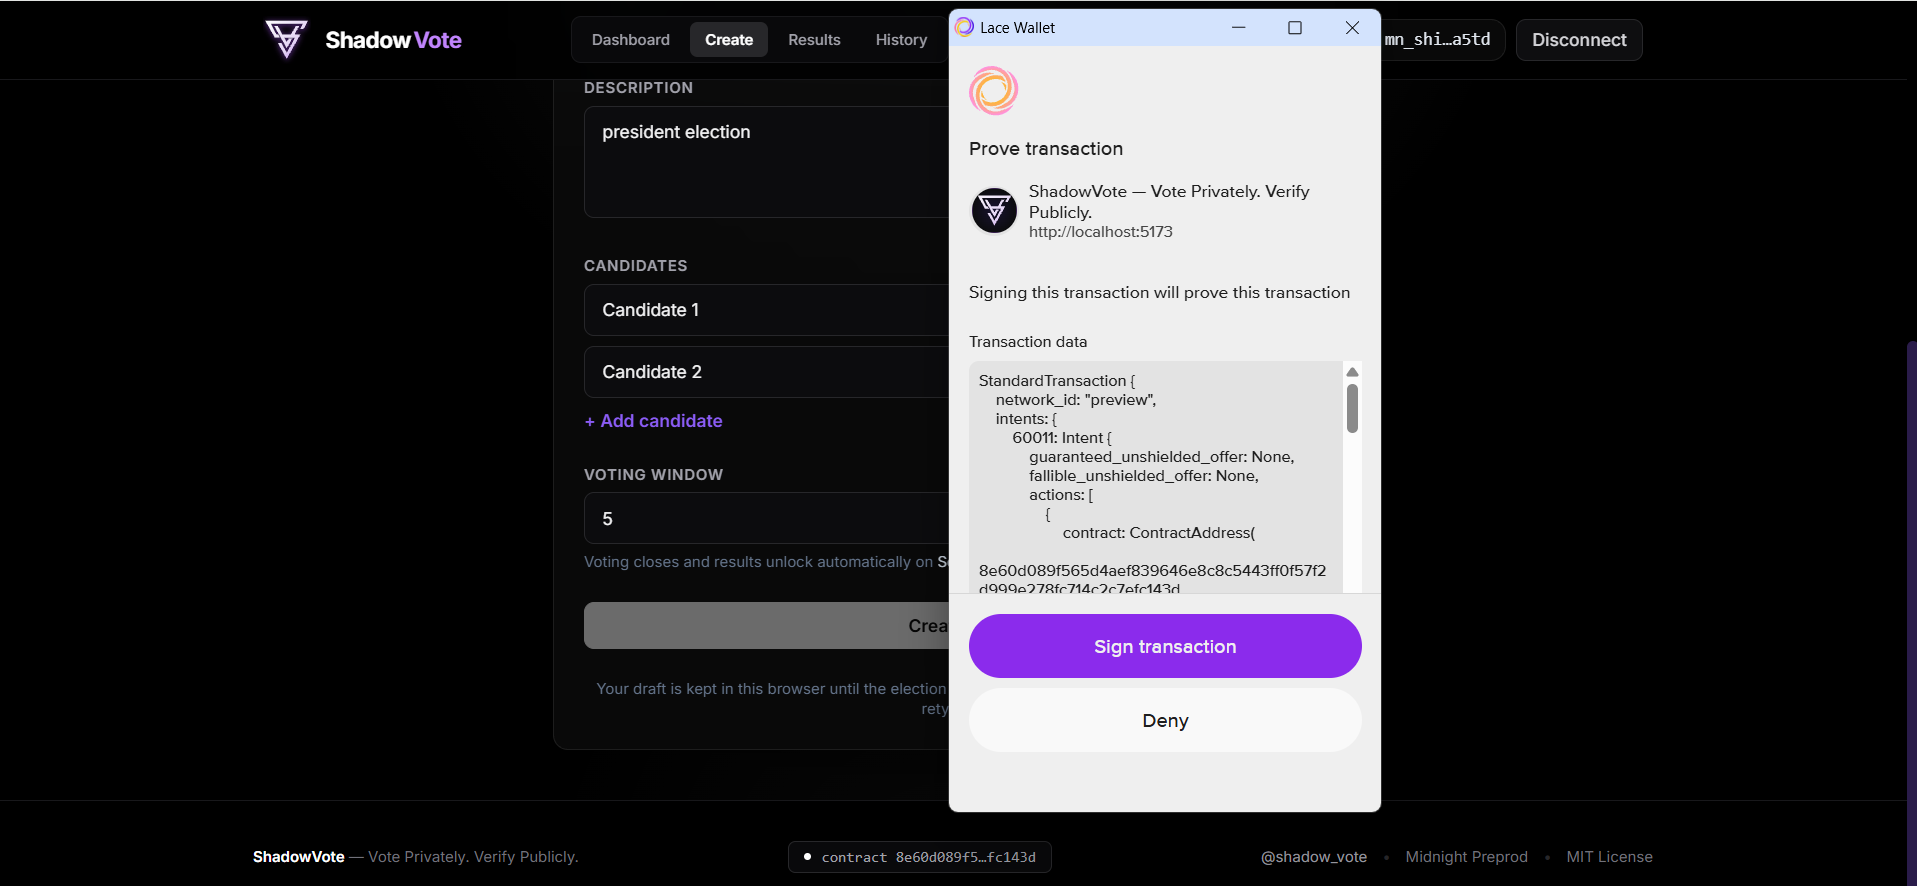
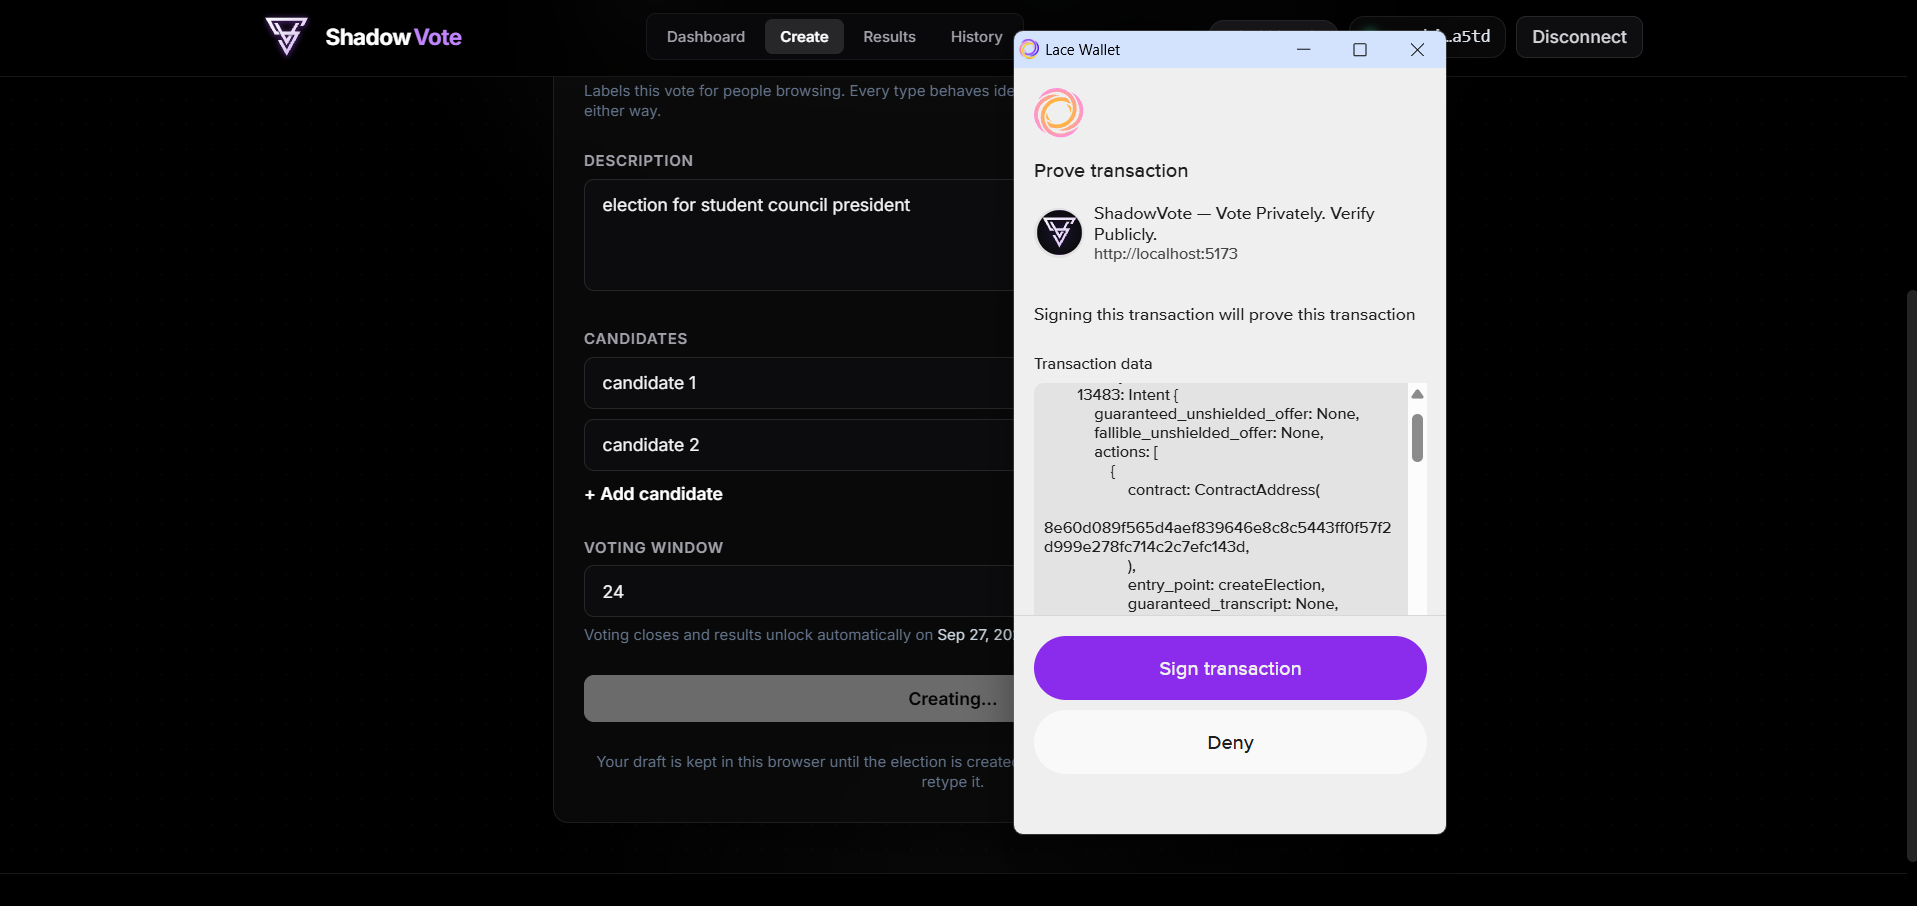
docs: update confirmation screenshot and add 3-step voting flow screenshots in README

diff --git a/README.md b/README.md
@@ -81,6 +81,12 @@ device — only a zero-knowledge proof that the choice was valid does.
 
 <img src="./screenshots/confirmation.png" alt="Vote confirmation after a private ballot is cast" width="900" />
 
+#### 🗳 Step-by-Step Private Voting Flow
+
+| 1. Select Candidate | 2. Proving & Submitting | 3. Ballot Confirmed |
+| :---: | :---: | :---: |
+| <img src="./screenshots/voting.png" alt="Select Candidate" width="280" /> | <img src="./screenshots/voting_process.png" alt="Proving & Submitting" width="280" /> | <img src="./screenshots/vote_done.png" alt="Ballot Confirmed" width="280" /> |
+
 ### 5. Results — Sealed Until Close
 Tallies stay hidden while voting is open and publish automatically the moment the
 deadline passes, which removes the bandwagon effect from live on-chain counts.
